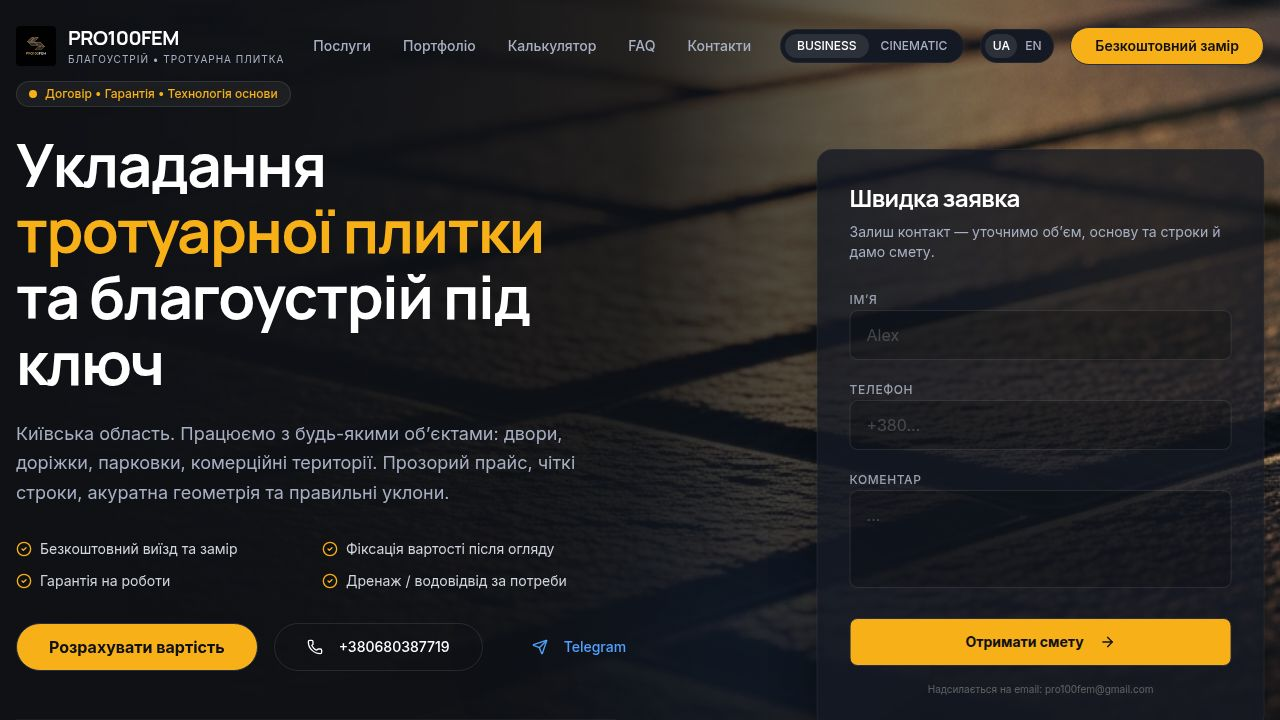
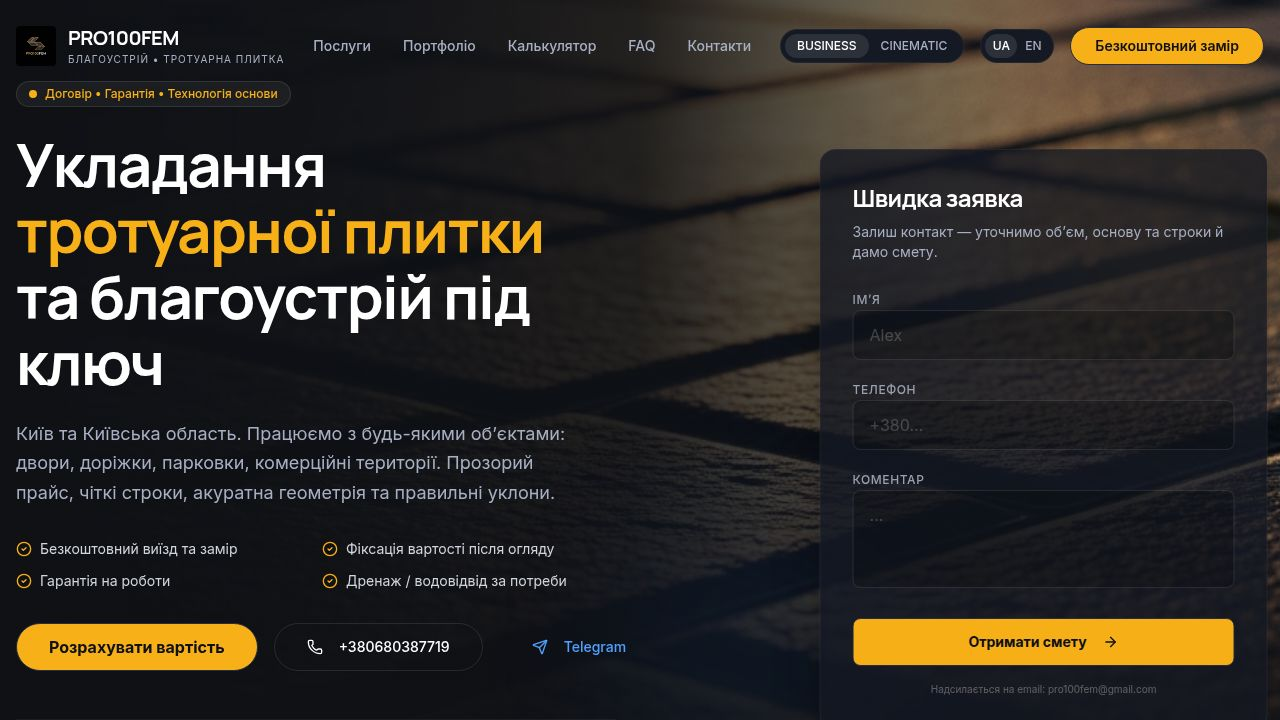
Update location information to include Kyiv and its region
Modify i18n translations for Ukrainian and English locales to reflect the expanded service area, changing references from "Kyiv Region" to "Kyiv and Kyiv Region" or similar variations.

Replit-Commit-Author: Agent
Replit-Commit-Session-Id: 568d4ed5-3704-48d0-8eff-bdaf3528adc9
Replit-Commit-Checkpoint-Type: full_checkpoint
Replit-Commit-Event-Id: beb9b3f4-86d3-4310-bf82-5358ac20bf94
Replit-Commit-Screenshot-Url: https://storage.googleapis.com/screenshot-production-us-central1/f4852ef1-f699-41d5-8a10-5761f62e9de1/568d4ed5-3704-48d0-8eff-bdaf3528adc9/k8Suc4J
Replit-Helium-Checkpoint-Created: true

diff --git a/client/src/lib/i18n.ts b/client/src/lib/i18n.ts
@@ -10,7 +10,7 @@ export const translations = {
     
     hero_pill: "Договір • Гарантія • Технологія основи",
     hero_h1: "Укладання тротуарної плитки та благоустрій під ключ",
-    hero_lead: "Київська область. Працюємо з будь-якими об’єктами: двори, доріжки, парковки, комерційні території. Прозорий прайс, чіткі строки, акуратна геометрія та правильні уклони.",
+    hero_lead: "Київ та Київська область. Працюємо з будь-якими об’єктами: двори, доріжки, парковки, комерційні території. Прозорий прайс, чіткі строки, акуратна геометрія та правильні уклони.",
     
     chip1: "✅ Безкоштовний виїзд та замір",
     chip2: "✅ Фіксація вартості після огляду",
@@ -23,7 +23,7 @@ export const translations = {
     trust1_s: "укладання плитки",
     trust2_b: "від 1500 грн/шт",
     trust2_s: "монтаж люків",
-    trust3_b: "Київська область",
+    trust3_b: "Київ та область",
     trust3_s: "виїзд та консультація",
     
     side_title: "Швидка заявка",
@@ -60,7 +60,7 @@ export const translations = {
     
     svc6_t: "Благоустрій територій",
     svc6_d: "Комплексні роботи: основа, водовідвід, покриття, бордюри.",
-    svc6_p: "Київська область",
+    svc6_p: "Київ та область",
 
     svc7_t: "Дитячі майданчики",
     svc7_d: "Безпечне гумове покриття, яскрава плитка, встановлення обладнання.",
@@ -97,7 +97,7 @@ export const translations = {
     contact_p: "Зв’яжіться з нами — відповімо та запропонуємо рішення під ваш бюджет.",
     contact_left_t: "Зв’язок",
     contact_geo_k: "Регіон:",
-    contact_geo_v: "Київська область",
+    contact_geo_v: "Київ та Київська область",
     contact_phone_k: "Телефон:",
     contact_call: "Подзвонити",
     contact_tg: "Написати в Telegram",
@@ -117,7 +117,7 @@ export const translations = {
     
     hero_pill: "Contract • Warranty • Base Technology",
     hero_h1: "Paving and Turnkey Landscaping",
-    hero_lead: "Kyiv region. We work with any objects: yards, paths, parking lots, commercial areas. Transparent pricing, clear deadlines, neat geometry and correct slopes.",
+    hero_lead: "Kyiv and Kyiv Region. We work with any objects: yards, paths, parking lots, commercial areas. Transparent pricing, clear deadlines, neat geometry and correct slopes.",
     
     chip1: "✅ Free visit and measurement",
     chip2: "✅ Price fixed after inspection",
@@ -130,7 +130,7 @@ export const translations = {
     trust1_s: "paving installation",
     trust2_b: "from 1500 UAH/pc",
     trust2_s: "manhole installation",
-    trust3_b: "Kyiv Region",
+    trust3_b: "Kyiv & Region",
     trust3_s: "visit & consultation",
     
     side_title: "Quick Request",
@@ -167,7 +167,7 @@ export const translations = {
     
     svc6_t: "Landscaping",
     svc6_d: "Complex works: base, drainage, coating, curbs.",
-    svc6_p: "Kyiv Region",
+    svc6_p: "Kyiv & Region",
 
     svc7_t: "Children's Playgrounds",
     svc7_d: "Safe rubber coating, bright tiles, equipment installation.",
@@ -204,7 +204,7 @@ export const translations = {
     contact_p: "Contact us - we will answer and offer a solution for your budget.",
     contact_left_t: "Communication",
     contact_geo_k: "Region:",
-    contact_geo_v: "Kyiv Region",
+    contact_geo_v: "Kyiv and Kyiv Region",
     contact_phone_k: "Phone:",
     contact_call: "Call",
     contact_tg: "Write in Telegram",
